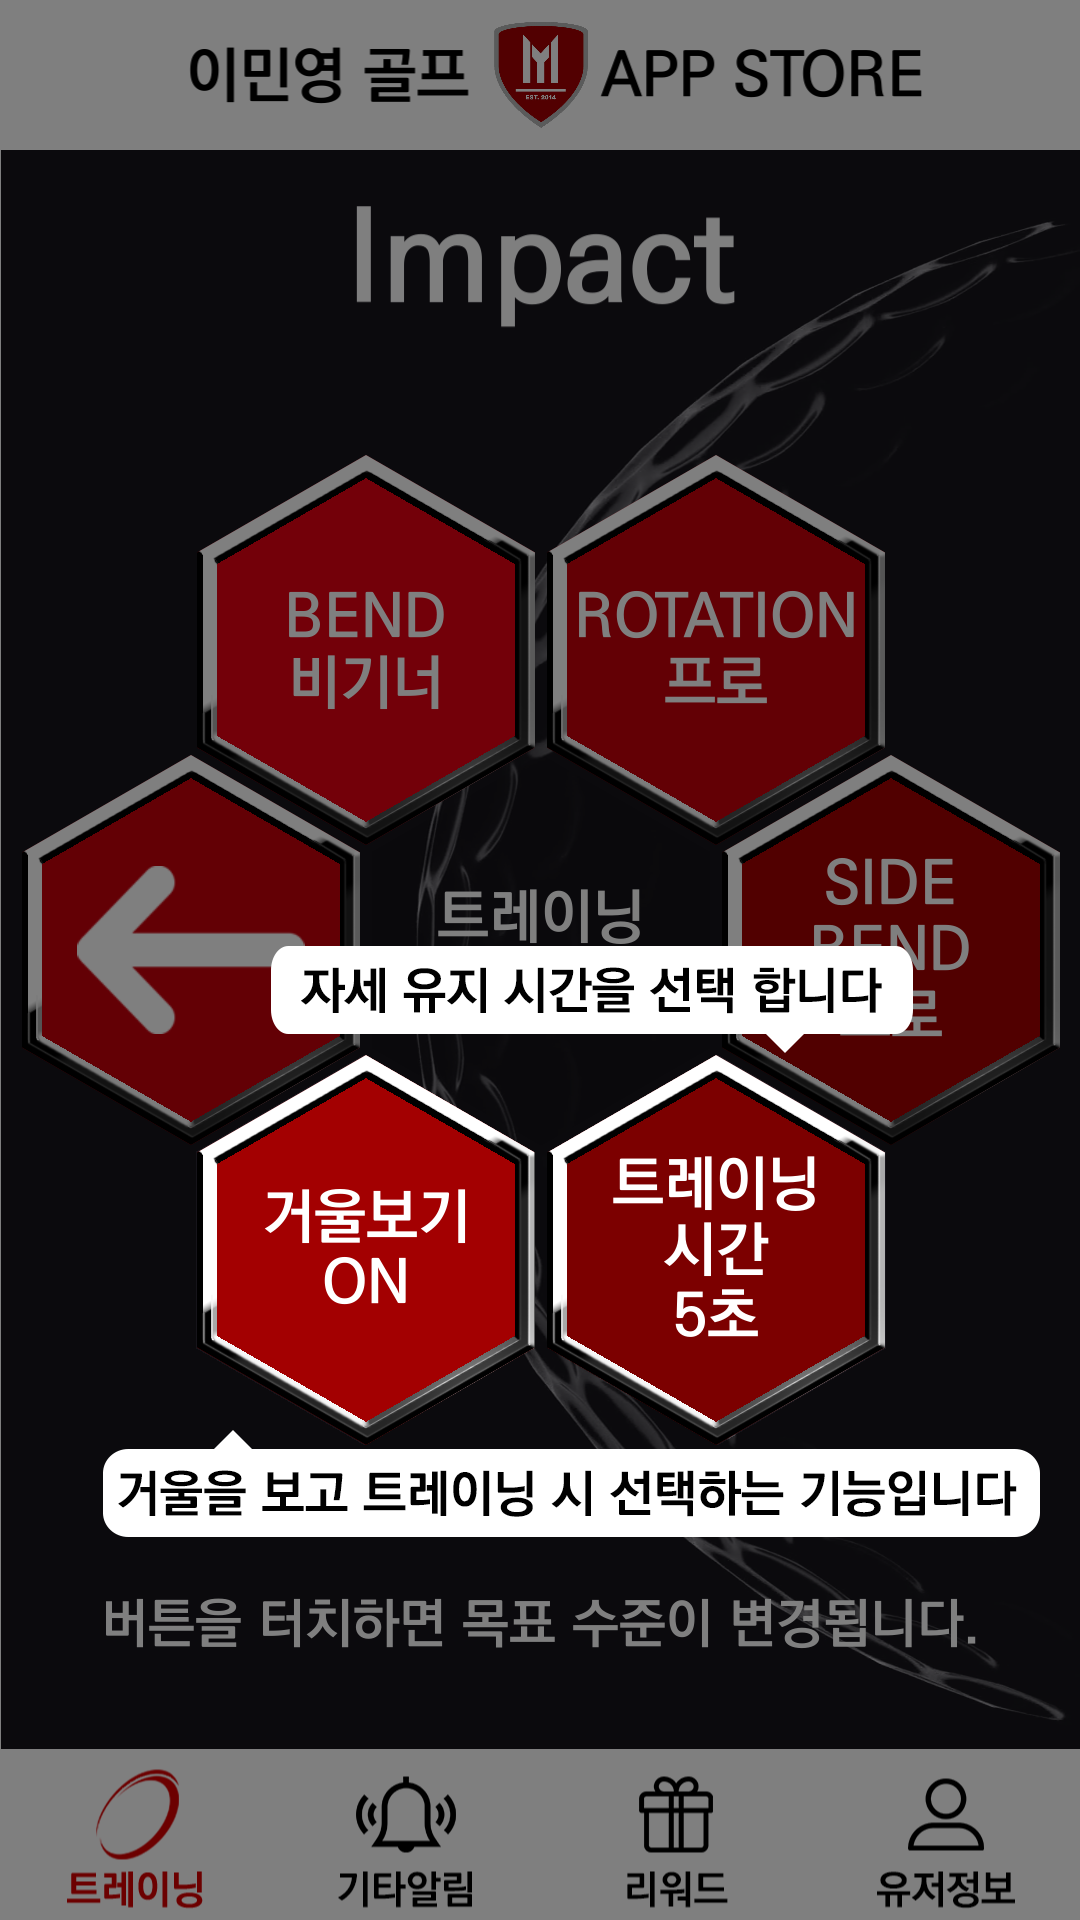
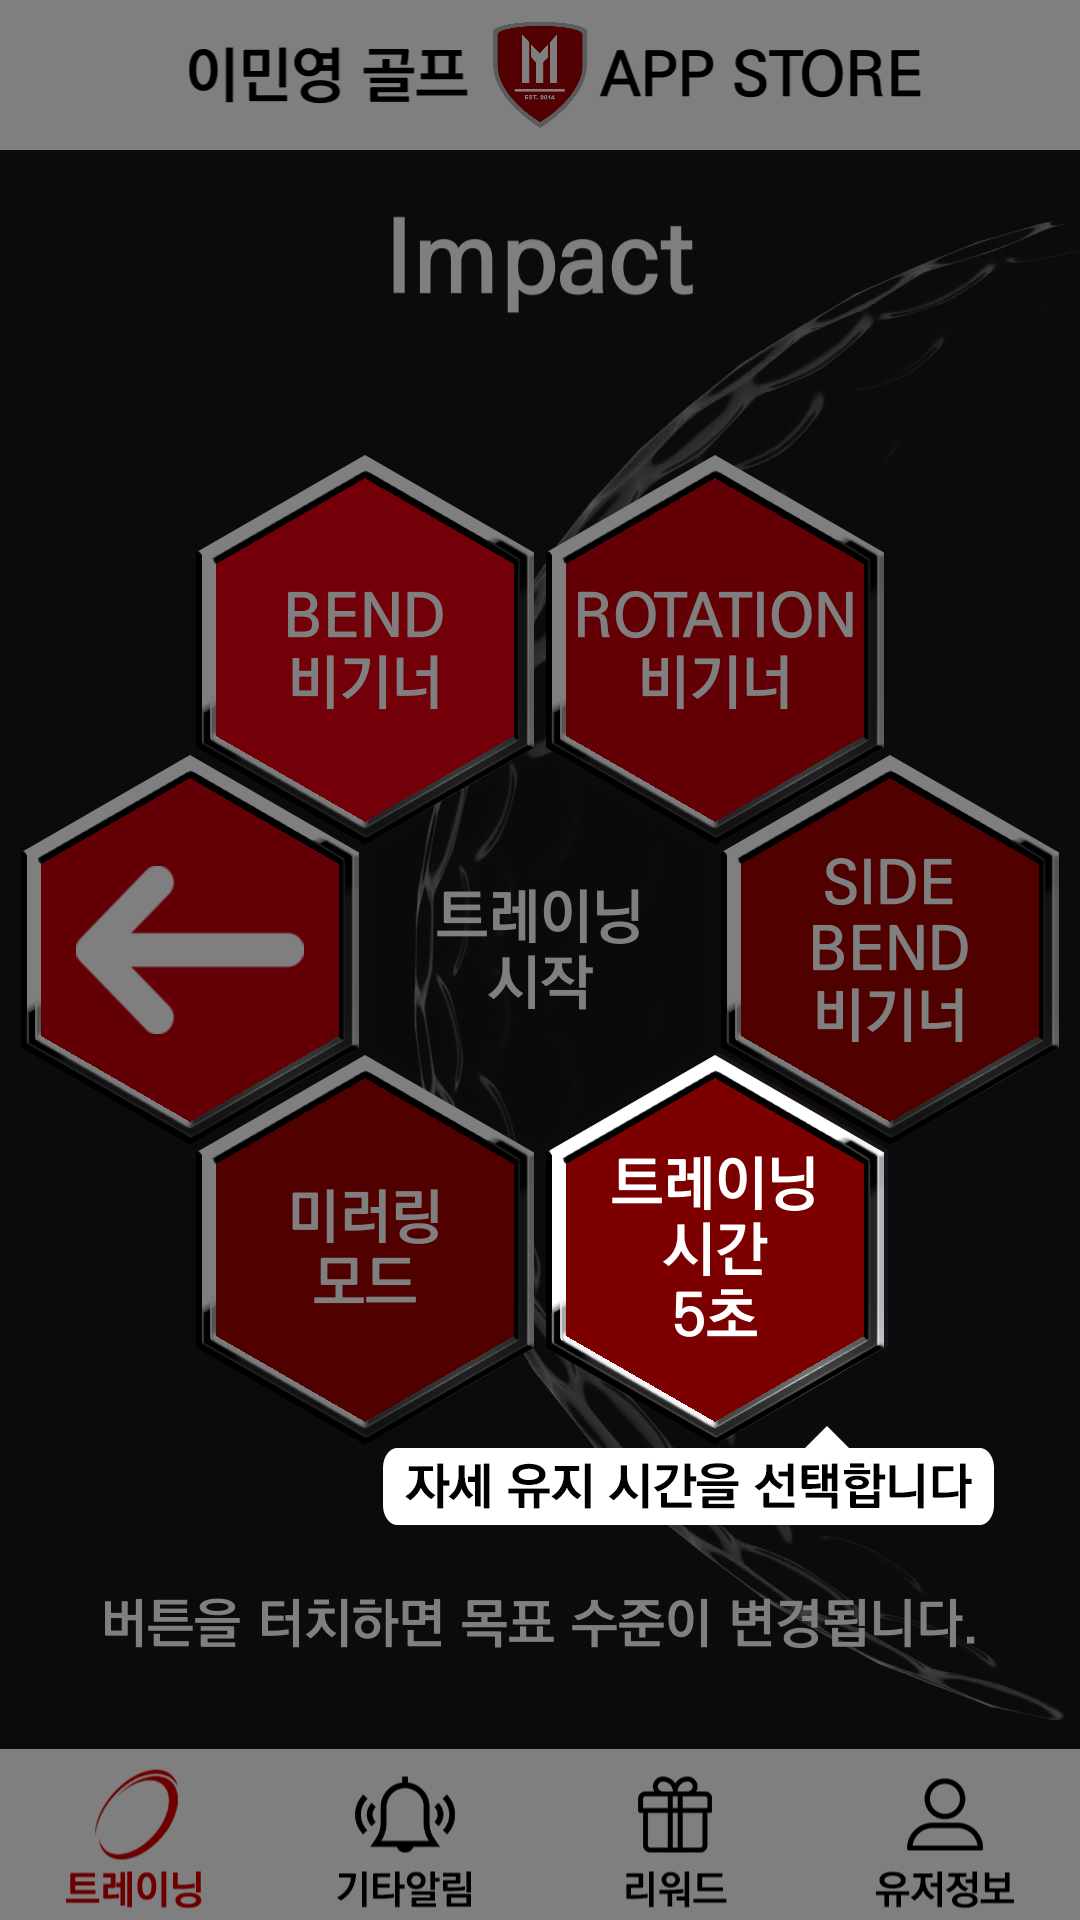
[배환웅] 도움말 추가

diff --git a/Golf/Assets/Script/UI/Page/MainTraningUI.cs b/Golf/Assets/Script/UI/Page/MainTraningUI.cs
@@ -196,7 +196,7 @@ public class MainTraningUI : MonoBehaviour {
                     else if (i == 5)
                     {
                         TKManager.Instance.MirrorMode = true;
-                        HexagonMenu[i].Init("거울보기\nON", "", CommonFunc.HexToColor(HexagonMenuColor[i], 1f), OnClickMirrorMode);
+                        HexagonMenu[i].Init("미러링\n모드", "", CommonFunc.HexToColor(HexagonMenuColor[i], 1f), OnClickMirrorMode);
                     }
                 }
 
@@ -359,6 +359,7 @@ public class MainTraningUI : MonoBehaviour {
                 list.Add("t_1_2");
                 list.Add("t_1_3");
                 list.Add("t_1_4");
+                list.Add("t_1_5");
                 PopupMgr.Instance.ShowPopup(PopupMgr.POPUP_TYPE.HELP, new PopupHelp.PopupData(list));
             }
         }
@@ -380,13 +381,13 @@ public class MainTraningUI : MonoBehaviour {
 
         if(TKManager.Instance.MirrorMode)
         {
-            HexagonMenu[5].SetText("거울보기\nON");
+            HexagonMenu[5].SetText("미러링\n모드");
             HexagonMenu[5].SetButtonColor(CommonFunc.HexToColor(HexagonMenuColor[5], 1f));
         }
         else
         {
-            HexagonMenu[5].SetText("거울보기\nOFF");
-            HexagonMenu[5].SetButtonColor(CommonFunc.HexToColor(HexagonMenuColor[5], 0.5f));
+            HexagonMenu[5].SetText("거울보기\n모드");
+            HexagonMenu[5].SetButtonColor(CommonFunc.HexToColor(HexagonMenuColor[5], 1f));
         }
     }
 
